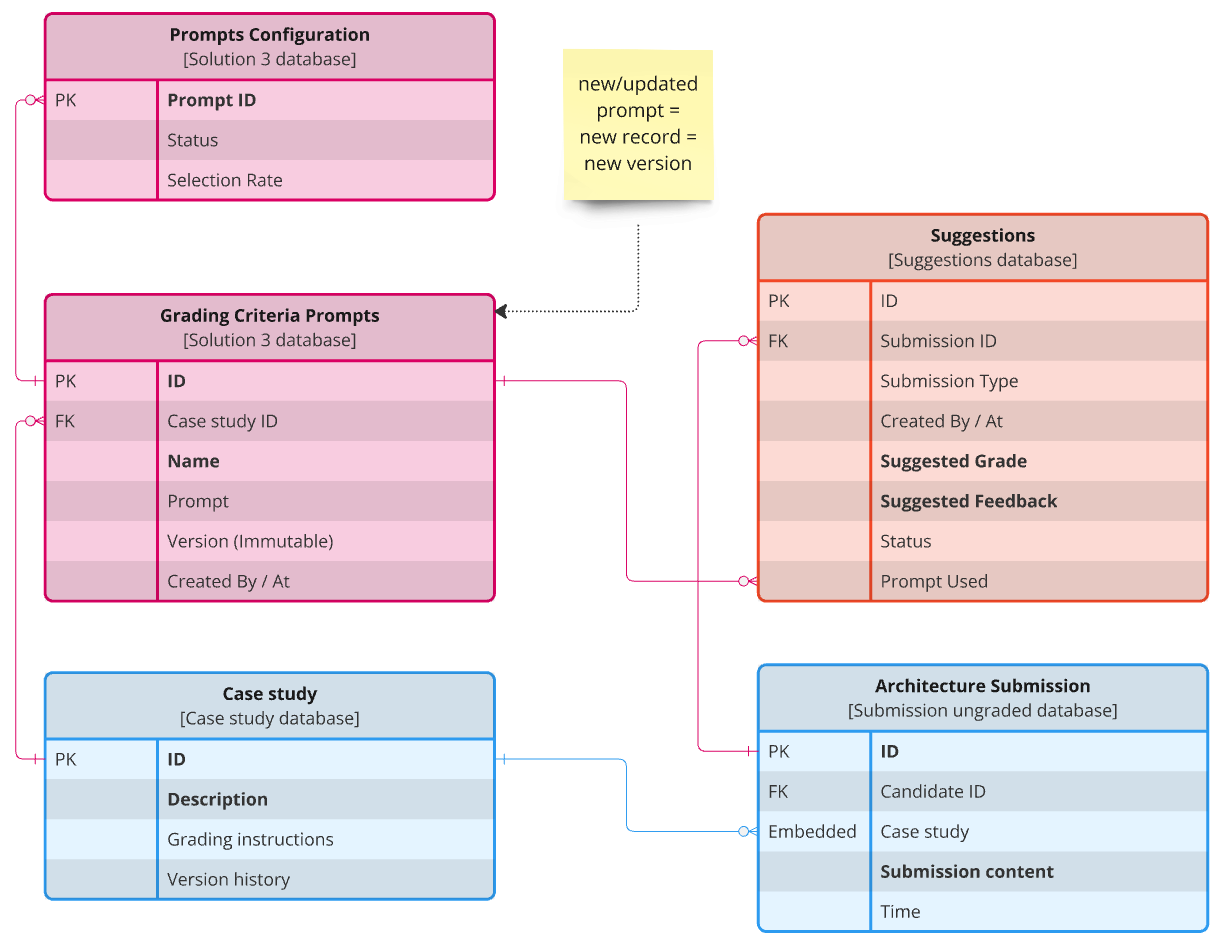
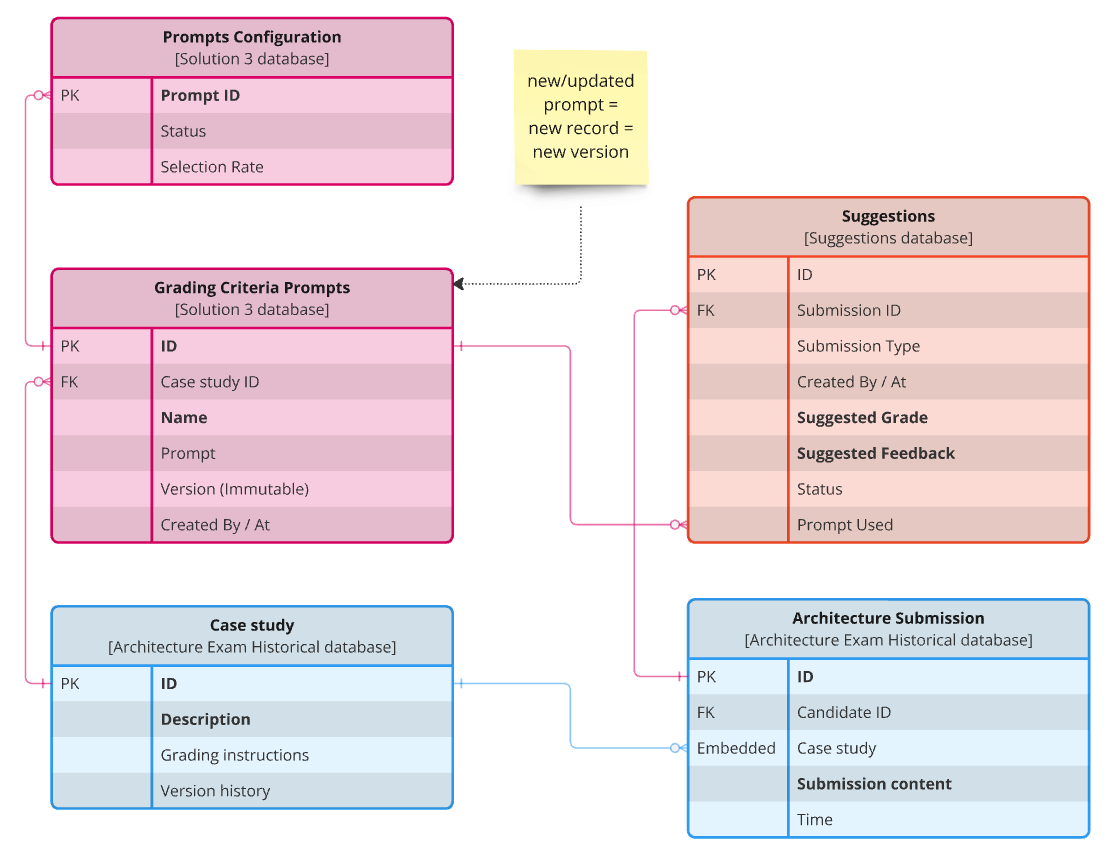
solution 3b

diff --git a/README.md b/README.md
@@ -709,7 +709,7 @@ This workflow describes an AI-assisted grading system for the Architecture Exam,
 
 2. **Candidates** submit their architecture solutions, which are stored in the Architecture Exam Database.
 
-3. The **Suggestions Generator (Microservice)** retrieves the architecture submission from the Architecture Exam Database.  
+3. The **Suggestions Generator (Microservice)** retrieves the architecture submission from the Architecture Exam Historical Database.  
    - It sends the submission, along with grading criteria prompts and prompt configurations (retrieved from the Solution 3 Database), to the LLM (Large Language Model).  
    - The LLM processes the input and returns grading suggestions.
 
@@ -787,6 +787,72 @@ The diagram illustrates the process of generating and enhancing the quality of A
 This iterative improvement cycle ensures that AI-generated grading suggestions remain high-quality, reliable, and aligned with expert expectations, leading to efficient and accurate candidate evaluations.
 
 ## Architecture Exam: Solution 3b - Direct Prompting
+
+### Idea
+
+The main idea is that **Solution 3a** is already functional, and our goal is to automate the manual tasks performed by the AI Engineer to maintain suggestion quality at the desired level.
+
+To achieve this, we will introduce a new component called the **Prompt Optimizer**. This component will track the performance of grading prompts and use an LLM to optimize them. The optimization process will involve analyzing rejected suggestions and comparing them with the correct answers provided by experts. Based on this data, the LLM will refine existing grading prompts to improve future suggestions automatically.
+
+### Context Viewpoint
+
+> *Describes the relationships, dependencies, and interactions between the system and its environment (the people, systems, and external entities with which it interacts).*
+
+This updated diagram introduces new elements to automate and optimize the grading prompt process. The highlighted additions focus on improving the **performance tracking and automatic refinement of grading prompts** using an **LLM-based optimization system**.
+
+![Diagram](future_state/solution_3b/context_viewpoint.png)
+
+#### Additions
+
+1. **Prompt Optimizer (New Component: Microservice)**  
+   - This new component is responsible for tracking prompt performance and optimizing grading criteria prompts when necessary.  
+   - It collects case studies, grading criteria, graded submissions, used prompts, and received suggestions.  
+   - It sends **optimized prompts** to improve grading consistency and accuracy.
+
+2. **Optimization Prompts Flow**  
+   - The **Prompt Optimizer** monitors Prompts performance and retrieves declined suggestions through  Solution 3 API.
+   - The **Prompt Optimizer** for declined suggestions, reads grading criteria, case studies and graded submissions from Architecture Exam Historical Database.
+   - The **Prompt Optimizer** interacts with the **LLM (External Component)** to refine grading prompts.  
+   - The LLM is provided with **rejected AI-generated suggestions** alongside the **expert's correct grading response**.  
+   - Based on this comparison, the LLM proposes **improvements to the grading prompt** to enhance future AI-generated suggestions.
+   - The **Prompt Optimizer** generates **Optimization Prompts** based on past performance and sends them to **Solution 3 API** for testing.
+
+### Operational Viewpoint
+
+> *Describes how the system will operate to fulfill the required functionality.*
+
+This diagram illustrates the **workflow for generating and optimizing AI-generated grading suggestions** to ensure high accuracy and expert alignment. The process continuously refines grading prompts based on performance data and expert feedback.
+
+![Diagram](future_state/solution_3b/operational_viewpoint.png)
+
+#### Workflow
+
+1. **Creating a New Grading Criterion Prompt**  
+   - A new or updated grading criterion is identified from the Case Study Database.  
+   - The Prompt Engineer reviews the grading criterion and creates a new grading prompt.  
+   - The new prompt is enabled for 100% of submissions and stored in the system.  
+   - The Suggestions Generator begins using the prompt to generate AI-powered grading suggestions.  
+   - The generated suggestions are stored in the Suggestions Database, and graded submissions are recorded for future evaluation.  
+
+2. **Evaluating Suggestion Quality**  
+   - AI-generated suggestions are monitored through prompt performance tracking.  
+   - The Prompt Generator analyzes how often experts accept or reject AI-generated suggestions.  
+   - If **80% or more of the suggestions are accepted**, the prompt is considered effective.  
+   - If the acceptance rate falls below 80%, the prompt needs optimization.  
+
+3. **Enhancing the Quality of AI-Generated Suggestions**  
+   - If a prompt underperforms, a new version of the grading criterion prompt is created.  
+   - The updated prompt is gradually enabled for X% of submissions to test its effectiveness.  
+   - The prompt configuration is updated, and the Suggestions Generator starts using the new version.  
+   - Once the updated prompt achieves **80% or more accepted suggestions**, it is fully enabled for 100% of submissions.
+   - *NOTE: Multiple versions of new grading prompt could be created in parallel and evaluated at the same time.*
+
+4. **Continuous Performance Monitoring and Improvement**  
+   - The system tracks the performance of AI-generated suggestions over time.  
+   - When necessary, new versions of grading prompts are introduced, ensuring consistent quality.  
+   - The process is iterative, meaning prompts are continuously refined and improved to maintain high-quality grading standards.  
+
+This **iterative improvement cycle** ensures that AI-generated grading suggestions remain **accurate, reliable, and aligned with expert expectations**, leading to efficient and high-quality candidate evaluations.
 
 ## Architecture Exam: Solution 4
 
